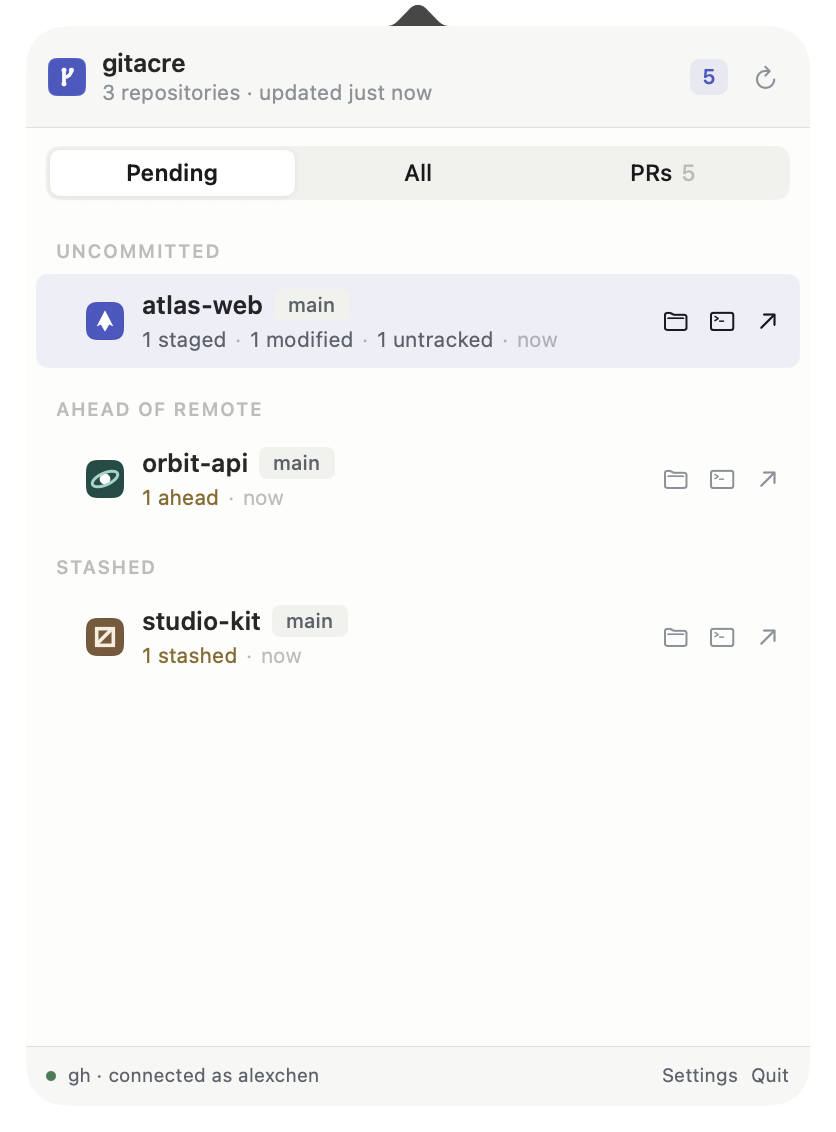
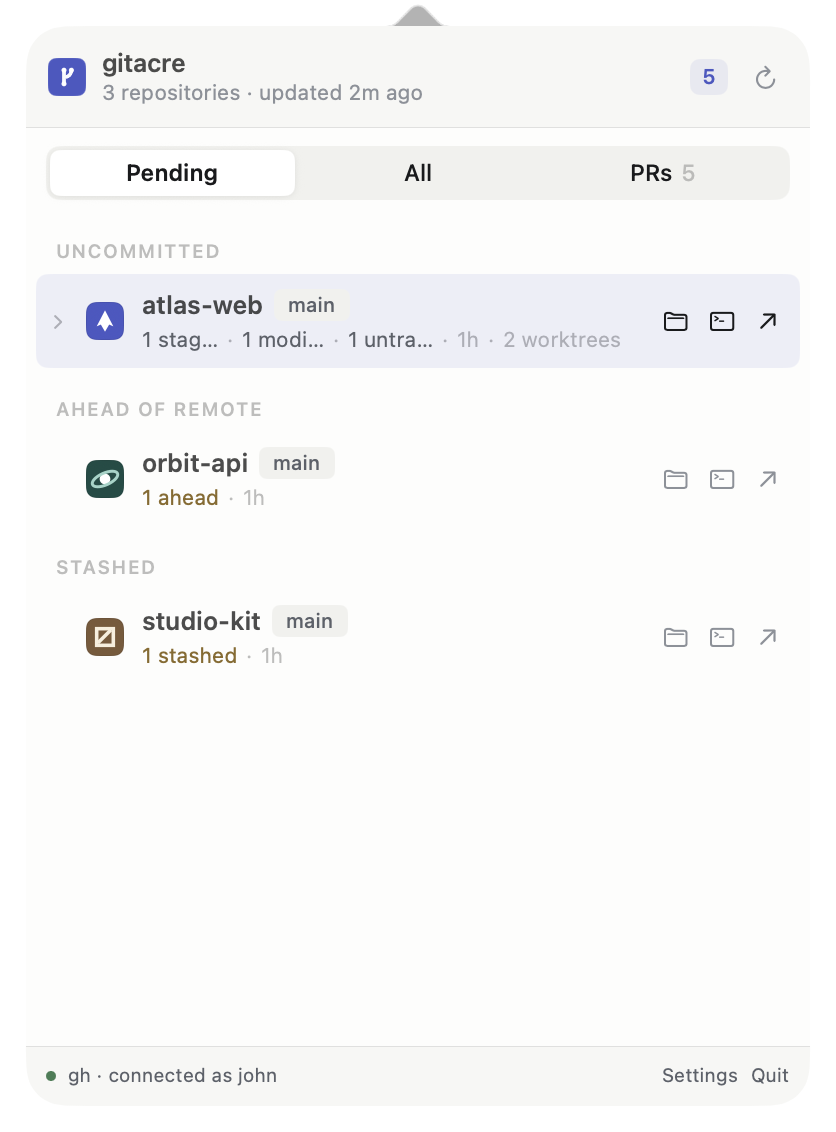
Containerize gitacre website

diff --git a/website/README.md b/website/README.md
@@ -8,4 +8,24 @@ Preview it locally from the repository root:
 python3 -m http.server 8080 --directory website
 ```
 
+## Docker
+
+Build and run the production container from the repository root:
+
+```sh
+docker build --tag gitacre-website:local website
+docker run --rm --read-only --tmpfs /tmp --publish 8080:8080 gitacre-website:local
+```
+
+Then open <http://localhost:8080>. The container runs NGINX as an unprivileged user, exposes a health check at `/healthz`, and serves only the static website assets.
+
+Alternatively, use Compose from the website directory:
+
+```sh
+cd website
+docker compose up --build
+```
+
+Set `PORT` if port 8080 is already in use, for example `PORT=18080 docker compose up --build`.
+
 The download buttons remain in a “Public beta soon” state while `releasesEnabled` is `false` in `script.js`. Once the repository is public and the first release exists, enable that flag and the site will automatically link to the latest DMG asset through the public GitHub Releases API.
